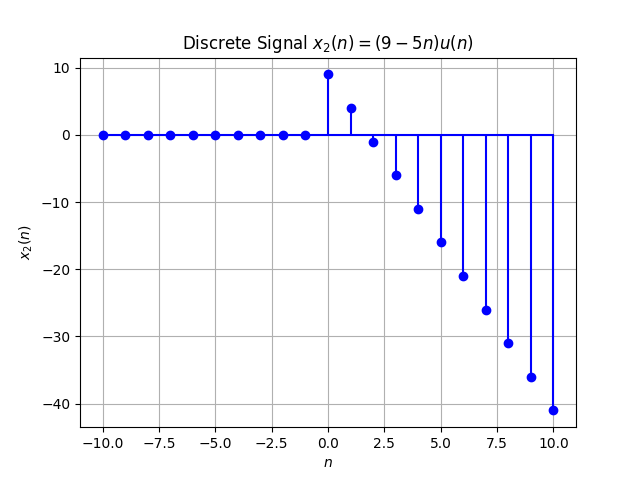
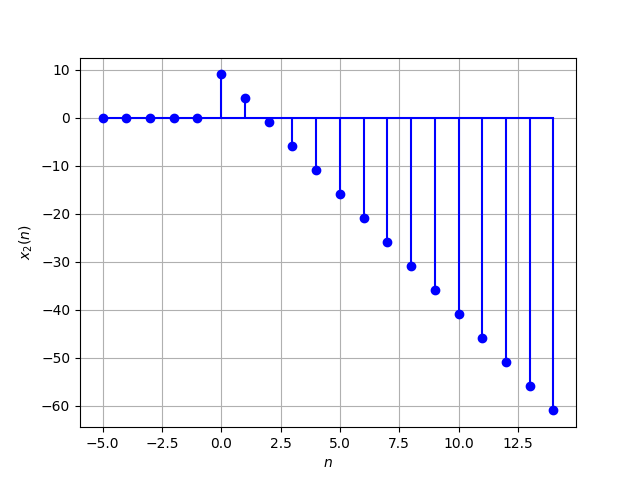
added code

diff --git a/Assignment2/codes/test1.c b/Assignment2/codes/test1.c
@@ -1,0 +1,40 @@
+#include<stdio.h>
+
+// Function to calculate x(n) = (9 - 5n)u(n)
+int x_n2(int n) {
+    return (9 - 5 * n) * (n >= 0);
+}
+
+int x_n1(int n) {
+    return (3 + 4 * n) * (n >= 0);
+}
+
+int main() {
+    int sum1=0;
+    int sum2=0;
+
+    FILE *file = fopen("data.dat", "w");
+    if (file == NULL) {
+        printf("Error opening file!");
+        return 1;
+    }
+
+    // Generate values for n
+    for (int n = -5; n <= 14; ++n) {
+        // Calculate corresponding values for x(n)
+        int x_value1 = x_n1(n);
+        int x_value2 = x_n2(n);
+
+        //calculating sums
+        sum1 += x_value1;
+        sum2 += x_value2;
+
+        // Write values to the file
+        fprintf(file, "%d %d %d\n", n, x_value1,x_value2);
+    }
+
+    fclose(file);
+
+    printf("%d %d",sum1,sum2);
+    return 0;
+}

diff --git a/Assignment2/codes/test2.py b/Assignment2/codes/test2.py
@@ -1,0 +1,28 @@
+import matplotlib.pyplot as plt
+
+# Read data from the file
+with open('data.dat', 'r') as file:
+    data = [line.split() for line in file.readlines()]
+
+# Extract n_values and x_values2
+n_values = [int(row[0]) for row in data]
+x_values1 = [int(row[1]) for row in data]
+x_values2 = [int(row[2]) for row in data]
+
+# Plot the graph1
+plt.stem(n_values, x_values1, linefmt='b-', markerfmt='bo', basefmt='b')
+plt.xlabel('$n$')
+plt.ylabel('$x_1(n)$')
+# plt.title('Discrete Signal $x_2(n) = (3 + 4n)u(n)$')
+plt.grid(True)
+plt.show()
+
+# Plot the graph2
+plt.stem(n_values, x_values2, linefmt='b-', markerfmt='bo', basefmt='b')
+plt.xlabel('$n$')
+plt.ylabel('$x_2(n)$')
+# plt.title('Discrete Signal $x_2(n) = (9 - 5n)u(n)$')
+plt.grid(True)
+plt.show()
+
+
